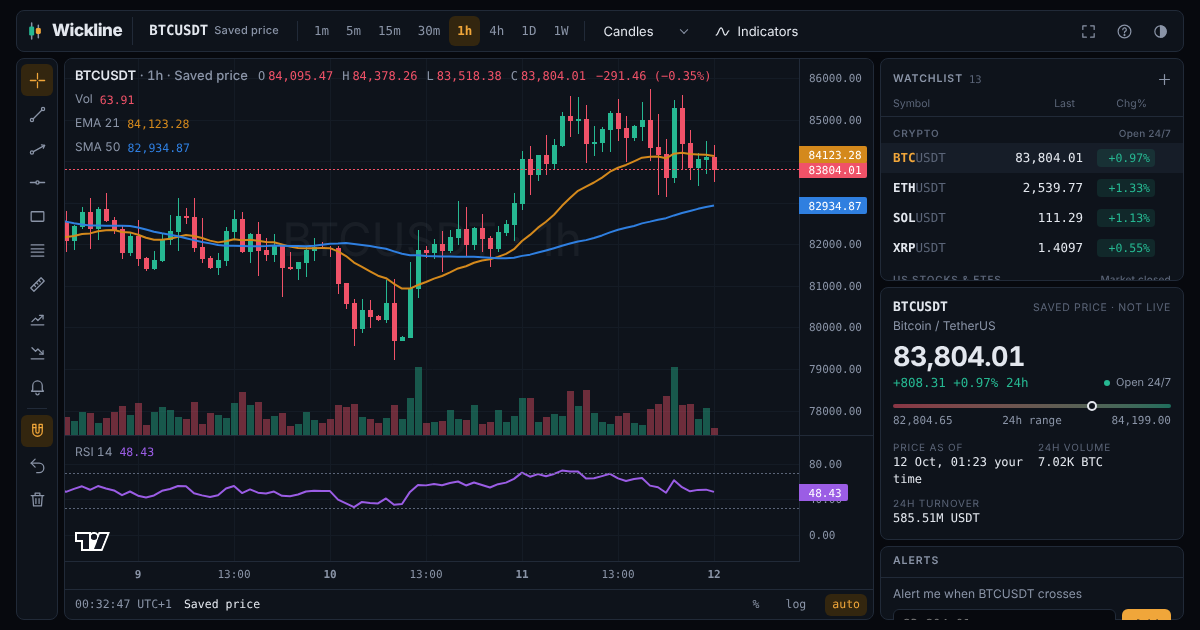
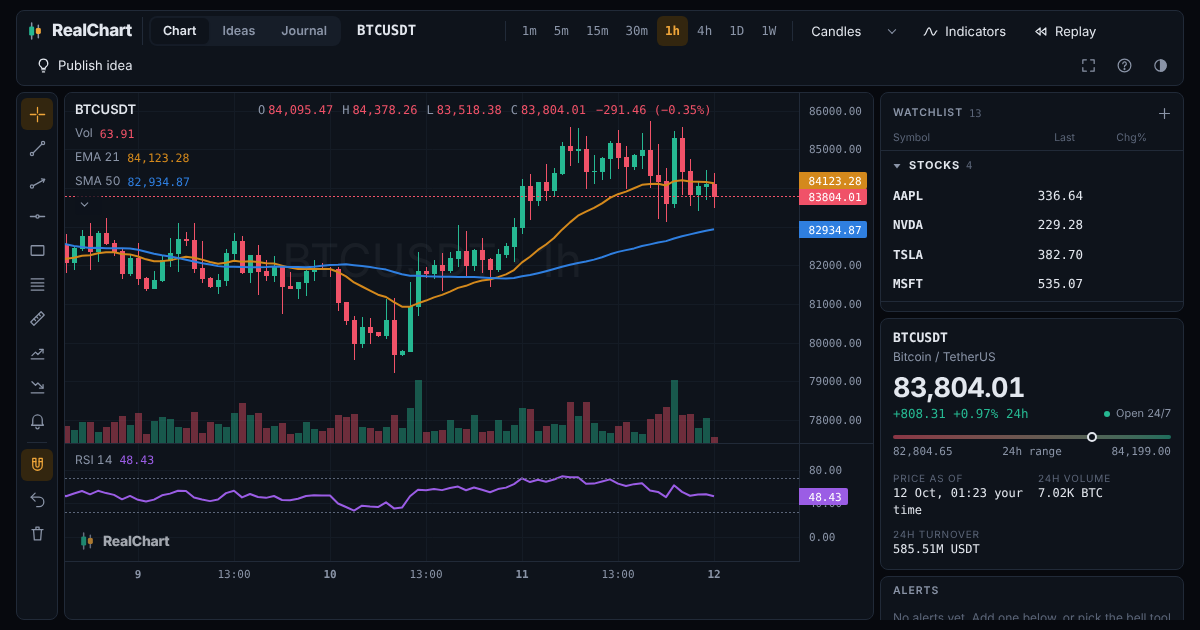
Rename the site to RealChart and prepare for realchart.trade
The helper accepts several site addresses (ALLOWED_ORIGIN, comma separated), link
previews point at realchart.trade, and the sharing image shows the new name. Saved
data keeps its old internal names, so nobody loses their setup.

Claude-Session: https://claude.ai/code/session_01HPvM6Pbi3yNMW5gVRCr7PD

diff --git a/index.html b/index.html
@@ -13,13 +13,13 @@
 <link rel="apple-touch-icon" href="apple-touch-icon.png">
 <link rel="manifest" href="manifest.webmanifest">
 <meta property="og:type" content="website">
-<meta property="og:title" content="Wickline Charts">
+<meta property="og:title" content="RealChart">
 <meta property="og:description" content="Free live charts for crypto, US stocks, forex, indices and commodities, with indicators, drawing tools, a watchlist and price alerts.">
 <meta name="twitter:card" content="summary_large_image">
-<meta property="og:url" content="https://muhammadmuzammal266-ops.github.io/wickline/">
-<meta property="og:image" content="https://muhammadmuzammal266-ops.github.io/wickline/og-image.png">
-<meta name="twitter:image" content="https://muhammadmuzammal266-ops.github.io/wickline/og-image.png">
-<title>Wickline Charts</title>
+<meta property="og:url" content="https://realchart.trade/">
+<meta property="og:image" content="https://realchart.trade/og-image.png">
+<meta name="twitter:image" content="https://realchart.trade/og-image.png">
+<title>RealChart</title>
 <link rel="preconnect" href="https://fonts.googleapis.com">
 <link rel="preconnect" href="https://fonts.gstatic.com" crossorigin>
 <link rel="stylesheet" href="https://fonts.googleapis.com/css2?family=Bricolage+Grotesque:opsz,wght@12..96,700;12..96,800&family=IBM+Plex+Mono:wght@400;500;600&family=IBM+Plex+Sans:wght@400;500;600&display=swap">
@@ -696,9 +696,9 @@ kbd{font-family:var(--font-data);font-size:11px;border:1px solid var(--line);bor
 
 <div class="app" id="app">
   <header class="top">
-    <div class="brand" aria-label="Wickline">
+    <div class="brand" aria-label="RealChart">
       <svg viewBox="0 0 24 24" aria-hidden="true"><path d="M8 2.5v4M8 17.5v4M16 5v3.5M16 15.5V20" style="stroke:var(--muted);stroke-width:1.8;stroke-linecap:round;fill:none"/><rect x="5" y="6.5" width="6" height="11" rx="1.6" style="fill:var(--up)"/><rect x="13" y="8.5" width="6" height="7" rx="1.6" style="fill:var(--accent)"/></svg>
-      <span class="word">Wickline</span>
+      <span class="word">RealChart</span>
     </div>
     <nav class="views" aria-label="Pages">
       <a class="view-tab" href="./" data-view="chart" aria-current="page">Chart</a>
@@ -735,7 +735,7 @@ kbd{font-family:var(--font-data);font-size:11px;border:1px solid var(--line);bor
     <div class="chart-wrap" id="wrap">
       <div id="chart"></div>
       <canvas id="overlay"></canvas>
-      <div class="wm-brand" id="wmBrand" aria-hidden="true"><svg viewBox="0 0 24 24"><path d="M8 2.5v4M8 17.5v4M16 5v3.5M16 15.5V20" style="stroke:var(--muted);stroke-width:1.8;stroke-linecap:round;fill:none"/><rect x="5" y="6.5" width="6" height="11" rx="1.6" style="fill:var(--up)"/><rect x="13" y="8.5" width="6" height="7" rx="1.6" style="fill:var(--accent)"/></svg><span id="wmWord">Wickline</span></div>
+      <div class="wm-brand" id="wmBrand" aria-hidden="true"><svg viewBox="0 0 24 24"><path d="M8 2.5v4M8 17.5v4M16 5v3.5M16 15.5V20" style="stroke:var(--muted);stroke-width:1.8;stroke-linecap:round;fill:none"/><rect x="5" y="6.5" width="6" height="11" rx="1.6" style="fill:var(--up)"/><rect x="13" y="8.5" width="6" height="7" rx="1.6" style="fill:var(--accent)"/></svg><span id="wmWord">RealChart</span></div>
       <div class="legend" id="legend">
         <div class="lg-head">
           <span class="lg-title" id="lgTitle">BTCUSDT <span>· 1h</span></span>

diff --git a/oanda-worker.js b/oanda-worker.js
@@ -1,5 +1,5 @@
 /*
-  Wickline helper (Cloudflare Worker, free plan)
+  RealChart helper (Cloudflare Worker, free plan)
   ----------------------------------------------
   Keeps your secret keys on Cloudflare, so they never reach visitors' browsers:
     - OANDA: forex, gold, indices, commodities and bonds (candles and prices, one-off or streamed)
@@ -9,7 +9,7 @@
   Setup: see README.md. In the Worker's Settings → Variables and Secrets add:
     OANDA_TOKEN     (type: Secret)  your OANDA personal access token
     TD_KEY          (type: Secret)  your Twelve Data API key
-    ALLOWED_ORIGIN  (type: Text)    your site's address, e.g. https://yourname.github.io
+    ALLOWED_ORIGIN  (type: Text)    your site's address, e.g. https://realchart.trade (several allowed, separated by commas)
   Optional:
     OANDA_ENV       practice or live. Found automatically from the token if left out.
     OANDA_ACCOUNT   your account ID. The first account is used if left out.
@@ -71,7 +71,11 @@ const TD_DATE = /^\d{4}-\d{2}-\d{2}( \d{2}:\d{2}:\d{2})?$/;
 
 export default {
   async fetch(request, env) {
-    const origin = env.ALLOWED_ORIGIN || '*';
+    // ALLOWED_ORIGIN can list several addresses, separated by commas (for example the site's own domain and www).
+    const allowedList = String(env.ALLOWED_ORIGIN || '*').split(',').map(s => s.trim().replace(/\/+$/, '')).filter(Boolean);
+    const from = request.headers.get('Origin');
+    const anyOrigin = allowedList.includes('*');
+    const origin = anyOrigin ? '*' : (from && allowedList.includes(from) ? from : allowedList[0]);
     const cors = {
       'Access-Control-Allow-Origin': origin,
       'Access-Control-Allow-Methods': 'GET, OPTIONS',
@@ -87,13 +91,12 @@ export default {
     if (request.method !== 'GET') return reply('Only GET is allowed.', 405);
 
     // Browsers on other websites are turned away (scripts can't be stopped this way, which is what the limits are for).
-    const from = request.headers.get('Origin');
-    if (from && origin !== '*' && from !== origin) return reply('Not allowed from this website.', 403);
+    if (from && !anyOrigin && !allowedList.includes(from)) return reply('Not allowed from this website.', 403);
     const ip = request.headers.get('CF-Connecting-IP') || 'unknown';
     if (!allowed(ip)) return json({ status: 'error', code: 429, message: 'Too many requests. Please slow down.' }, 429);
 
     const url = new URL(request.url);
-    if (url.pathname === '/') return reply('Wickline helper is running.', 200);
+    if (url.pathname === '/') return reply('RealChart helper is running.', 200);
 
     // ----- Twelve Data: /td/quote and /td/time_series -----
     if (url.pathname === '/td/quote' || url.pathname === '/td/time_series') {

diff --git a/privacy.html b/privacy.html
@@ -5,7 +5,7 @@
 <meta http-equiv="Content-Security-Policy" content="default-src 'none'; style-src 'unsafe-inline' https://fonts.googleapis.com; font-src https://fonts.gstatic.com; img-src 'self'; base-uri 'none'; form-action 'none'">
 <meta name="referrer" content="strict-origin-when-cross-origin">
 <meta name="viewport" content="width=device-width,initial-scale=1">
-<title>Privacy policy · Wickline Charts</title>
+<title>Privacy policy · RealChart</title>
 <link rel="icon" href="favicon.svg" type="image/svg+xml">
 <link rel="stylesheet" href="https://fonts.googleapis.com/css2?family=Bricolage+Grotesque:opsz,wght@12..96,800&family=IBM+Plex+Sans:wght@400;600&display=swap">
 <style>
@@ -26,11 +26,11 @@ footer{margin-top:40px;padding-top:16px;border-top:1px solid var(--line);font-si
 </head>
 <body>
 <main>
-<a class="back" href="./">← Back to Wickline</a>
+<a class="back" href="./">← Back to RealChart</a>
 <h1>Privacy policy</h1>
 <p class="muted">Last updated 15 October 2026 (Ideas added)</p>
 
-<p>Wickline Charts is a free charting website. You can use it without an account. This page explains what happens to your information when you use it, and what changes if you sign in.</p>
+<p>RealChart is a free charting website. You can use it without an account. This page explains what happens to your information when you use it, and what changes if you sign in.</p>
 
 <h2>If you don't sign in</h2>
 <p>Your watchlist, drawings, indicators, price alerts, chart settings and trade journal are saved only in your own browser (its "local storage"). They are not sent to us. Clearing your browser's site data removes them. If you sign in later, your journal entries move from the browser into your account.</p>
@@ -66,7 +66,7 @@ footer{margin-top:40px;padding-top:16px;border-top:1px solid var(--line);font-si
 <h2>Questions</h2>
 <p>To ask about your data or this policy, open an issue on the site's <a href="https://github.com/muhammadmuzammal266-ops/wickline/issues" rel="noopener">GitHub page</a>.</p>
 
-<footer>Wickline Charts</footer>
+<footer>RealChart</footer>
 </main>
 </body>
 </html>

diff --git a/rules.html b/rules.html
@@ -5,7 +5,7 @@
 <meta http-equiv="Content-Security-Policy" content="default-src 'none'; style-src 'unsafe-inline' https://fonts.googleapis.com; font-src https://fonts.gstatic.com; img-src 'self'; base-uri 'none'; form-action 'none'">
 <meta name="referrer" content="strict-origin-when-cross-origin">
 <meta name="viewport" content="width=device-width,initial-scale=1">
-<title>Community rules · Wickline Charts</title>
+<title>Community rules · RealChart</title>
 <link rel="icon" href="favicon.svg" type="image/svg+xml">
 <link rel="stylesheet" href="https://fonts.googleapis.com/css2?family=Bricolage+Grotesque:opsz,wght@12..96,800&family=IBM+Plex+Sans:wght@400;600&display=swap">
 <style>
@@ -30,7 +30,7 @@ footer{margin-top:40px;padding-top:16px;border-top:1px solid var(--line);font-si
 <h1>Community rules</h1>
 <p class="muted">Last updated 15 October 2026</p>
 
-<p>Ideas and comments on Wickline are public. Anyone can read them, with the name and photo of the person who posted them. These rules keep the Ideas page useful and safe for everyone.</p>
+<p>Ideas and comments on RealChart are public. Anyone can read them, with the name and photo of the person who posted them. These rules keep the Ideas page useful and safe for everyone.</p>
 
 <h2>The rules</h2>
 <ol>
@@ -57,7 +57,7 @@ footer{margin-top:40px;padding-top:16px;border-top:1px solid var(--line);font-si
 <h2>Questions</h2>
 <p>To ask about these rules or a moderation decision, open an issue on the site's <a href="https://github.com/muhammadmuzammal266-ops/wickline/issues" rel="noopener">GitHub page</a>. See also the <a href="privacy.html">privacy policy</a>.</p>
 
-<footer>Wickline Charts</footer>
+<footer>RealChart</footer>
 </main>
 </body>
 </html>

diff --git a/app.js b/app.js
@@ -1,5 +1,5 @@
 // Refuse to run inside another website's frame (GitHub Pages can't send a header for this).
-if (window.top !== window.self) { document.documentElement.style.display = 'none'; throw new Error('Wickline must be opened directly.'); }
+if (window.top !== window.self) { document.documentElement.style.display = 'none'; throw new Error('RealChart must be opened directly.'); }
 (function () {
 'use strict';
 
@@ -58,10 +58,10 @@ const store = {
 try { localStorage.removeItem(NS + 'oanda'); } catch (e) { /* storage unavailable */ }
 
 /* ---------- site settings from config.js ---------- */
-const CFG = Object.assign({ siteName: 'Wickline', twelveDataKey: '', proxy: '', supabaseUrl: '', supabaseKey: '', defaultSymbol: 'BTCUSDT', defaultTimeframe: '1h', defaultWatchlist: null }, window.WICKLINE_CONFIG || {});
+const CFG = Object.assign({ siteName: 'RealChart', twelveDataKey: '', proxy: '', supabaseUrl: '', supabaseKey: '', defaultSymbol: 'BTCUSDT', defaultTimeframe: '1h', defaultWatchlist: null }, window.WICKLINE_CONFIG || {});
 // The site's Cloudflare helper: keeps the OANDA and Twelve Data keys off the page.
 const API = (v => (/^https:\/\/[a-z0-9.-]+$/i.test(v) || /^http:\/\/(127\.0\.0\.1|localhost)(:\d+)?$/.test(v) ? v : ''))(String(CFG.proxy || CFG.oandaProxy || '').trim().replace(/\/+$/, ''));
-CFG.siteName = String(CFG.siteName || 'Wickline').slice(0, 40);
+CFG.siteName = String(CFG.siteName || 'RealChart').slice(0, 40);
 CFG.twelveDataKey = String(CFG.twelveDataKey || '').trim();
 
 /* ---------- market vocabulary ---------- */

diff --git a/config.js b/config.js
@@ -1,5 +1,5 @@
 /*
-  Wickline settings
+  RealChart settings
   -----------------
   Change the values below, then save (on GitHub: "Commit changes").
   Your live site updates about a minute later.
@@ -11,7 +11,7 @@
 window.WICKLINE_CONFIG = {
 
   // The name shown in the top-left corner and in the browser tab.
-  siteName: 'Wickline',
+  siteName: 'RealChart',
 
   // Your Cloudflare helper (oanda-worker.js). It keeps your OANDA token and Twelve Data key secret
   // and gives every visitor live forex, gold, indices, commodities, bonds and US stocks.

diff --git a/README.md b/README.md
@@ -1,4 +1,4 @@
-# Wickline Charts
+# RealChart
 
 Free live charts for crypto, US stocks, forex, gold, stock indices, commodities and bonds, in your browser. It has candles, indicators, drawing tools, bar replay, a watchlist, price alerts, a trade journal, an Ideas page where traders share their analysis, and optional Google sign-in.
 
@@ -81,7 +81,7 @@ People can use the site without signing in. Signing in saves their watchlist, dr
 The setup has three parts:
 
 1. **Google Cloud** (console.cloud.google.com): an OAuth client of type *Web application*, with your site as an authorized JavaScript origin and `https://<your-project>.supabase.co/auth/v1/callback` as the authorized redirect URI. Publish the app under **Audience** so anyone can sign in.
-2. **Supabase** (Authentication): turn on the Google provider with that client's ID and secret. Under URL Configuration, set the Site URL to your site and add `https://yourname.github.io/wickline/**` to the redirect URLs.
+2. **Supabase** (Authentication): turn on the Google provider with that client's ID and secret. Under URL Configuration, set the Site URL to your site and add `https://realchart.trade/**` to the redirect URLs.
 3. **config.js:** `supabaseUrl` and `supabaseKey` (the *publishable* key from Supabase's API settings). These two are meant to be public.
 
 ## Security
